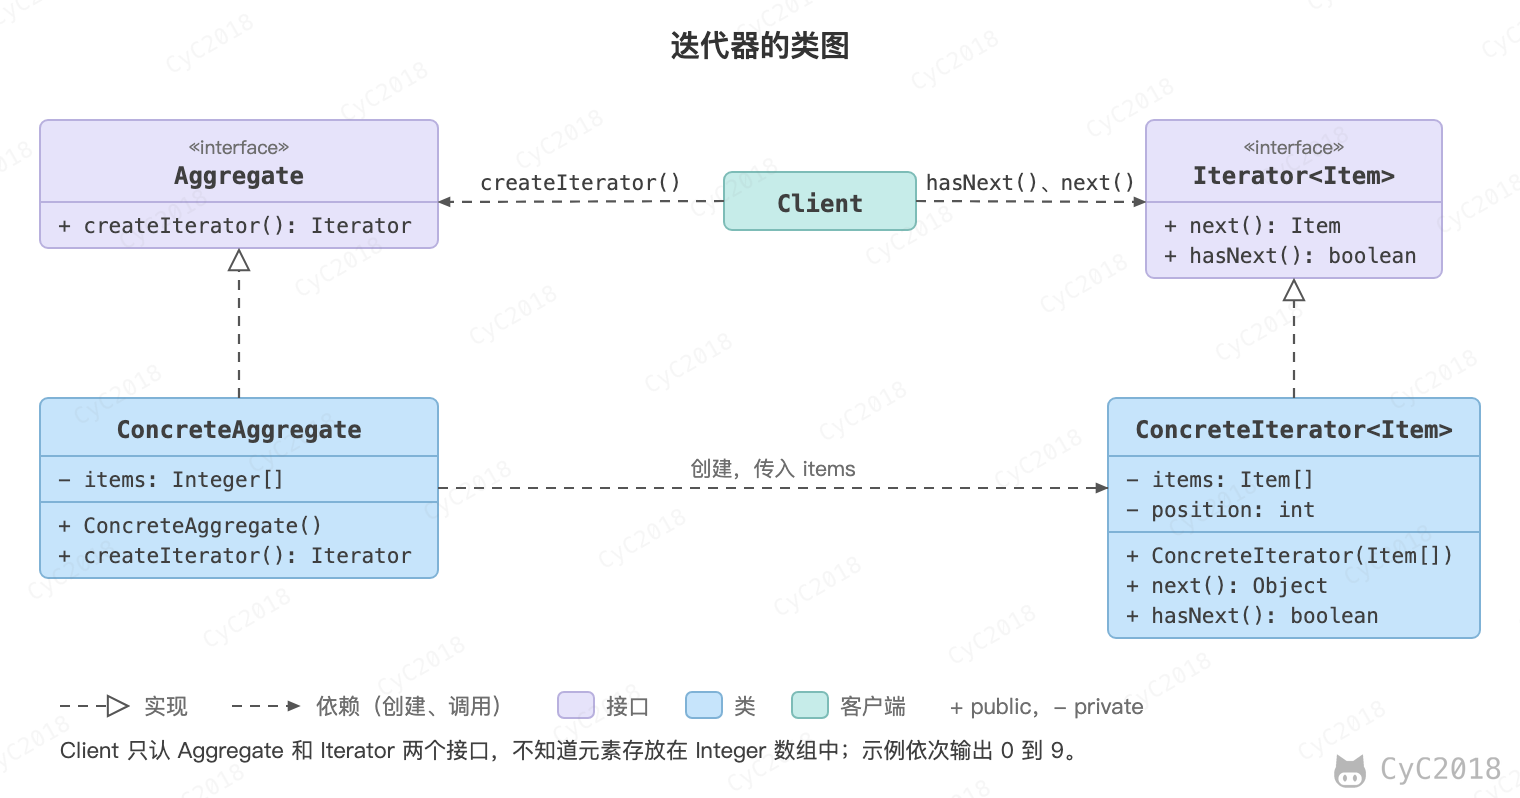
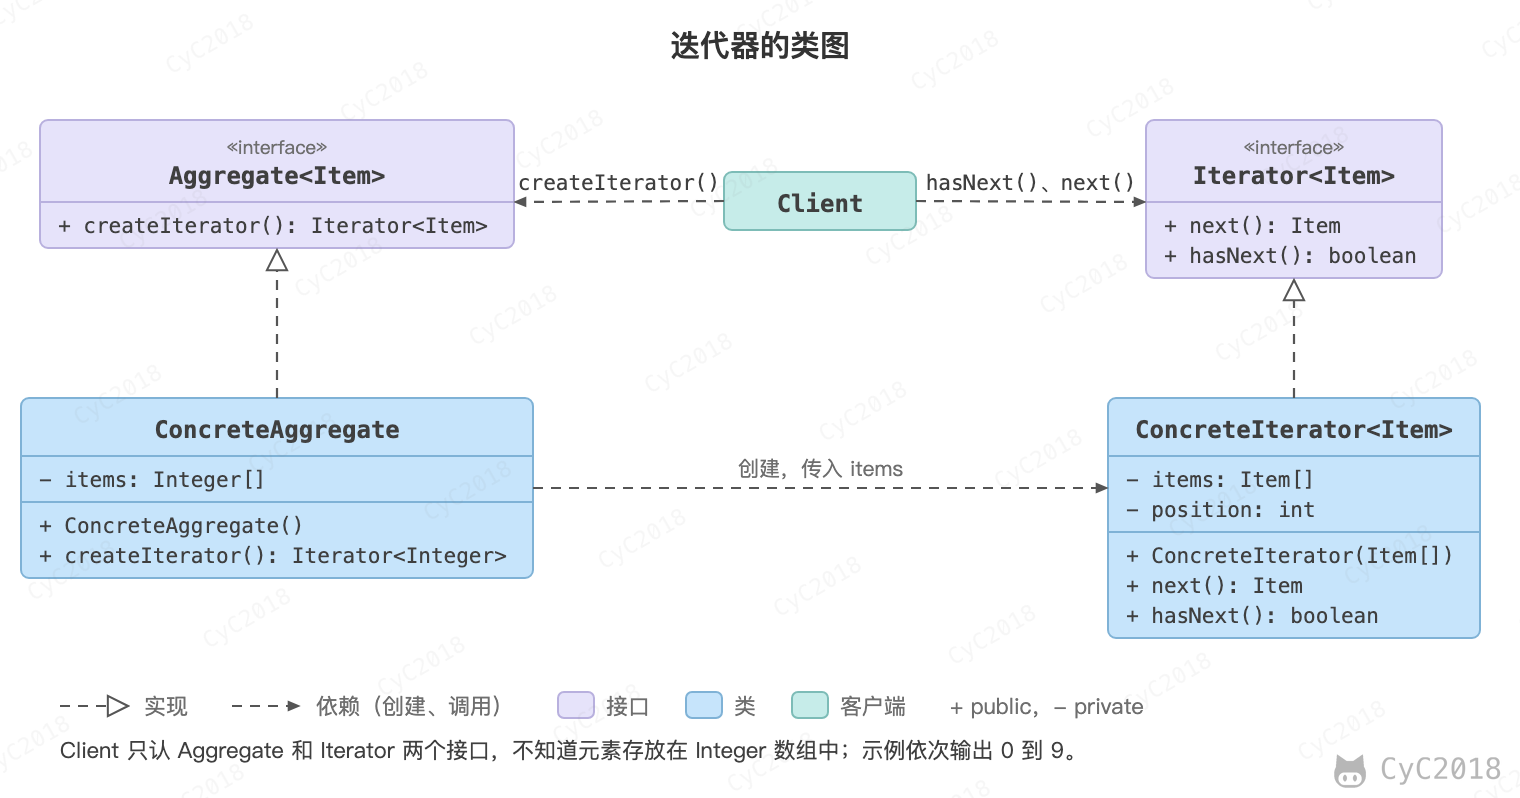
Update 设计模式 - 迭代器.md
调整示例代码泛型，补充运行输出及客户端解耦说明，文字校对参考书籍格式；重新绘制 dp-iterator.png 配图。

diff --git a/notes/设计模式 - 迭代器.md b/notes/设计模式 - 迭代器.md
@@ -12,13 +12,13 @@
 
 ### 实现
 ```java
-public interface Aggregate {
-    Iterator createIterator();
+public interface Aggregate<Item> {
+    Iterator<Item> createIterator();
 }
 ```
 
 ```java
-public class ConcreteAggregate implements Aggregate {
+public class ConcreteAggregate implements Aggregate<Integer> {
 
     private Integer[] items;
 
@@ -30,8 +30,8 @@ public class ConcreteAggregate implements Aggregate {
     }
 
     @Override
-    public Iterator createIterator() {
-        return new ConcreteIterator<Integer>(items);
+    public Iterator<Integer> createIterator() {
+        return new ConcreteIterator<>(items);
     }
 }
 ```
@@ -46,7 +46,7 @@ public interface Iterator<Item> {
 ```
 
 ```java
-public class ConcreteIterator<Item> implements Iterator {
+public class ConcreteIterator<Item> implements Iterator<Item> {
 
     private Item[] items;
     private int position = 0;
@@ -56,7 +56,7 @@ public class ConcreteIterator<Item> implements Iterator {
     }
 
     @Override
-    public Object next() {
+    public Item next() {
         return items[position++];
     }
 
@@ -71,7 +71,7 @@ public class ConcreteIterator<Item> implements Iterator {
 public class Client {
 
     public static void main(String[] args) {
-        Aggregate aggregate = new ConcreteAggregate();
+        Aggregate<Integer> aggregate = new ConcreteAggregate();
         Iterator<Integer> iterator = aggregate.createIterator();
         while (iterator.hasNext()) {
             System.out.println(iterator.next());
@@ -80,6 +80,15 @@ public class Client {
 }
 ```
 
+```text
+0
+1
+...
+9
+```
+
+Client 只用到 hasNext() 和 next()，ConcreteAggregate 把数组换成链表时，只要同时换掉迭代器，Client 不用改。
+
 ### JDK 中的应用
 - [java.util.Iterator](http://docs.oracle.com/javase/8/docs/api/java/util/Iterator.html)
 - [java.util.Enumeration](http://docs.oracle.com/javase/8/docs/api/java/util/Enumeration.html)
@@ -87,4 +96,4 @@ public class Client {
 ## 参考资料
 
 - 弗里曼. Head First 设计模式 [M]. 中国电力出版社, 2007.
-- Gamma E. 设计模式: 可复用面向对象软件的基础 [M]. 机械工业出版社, 2007.
+- Gamma E. 设计模式：可复用面向对象软件的基础 [M]. 机械工业出版社, 2007.
